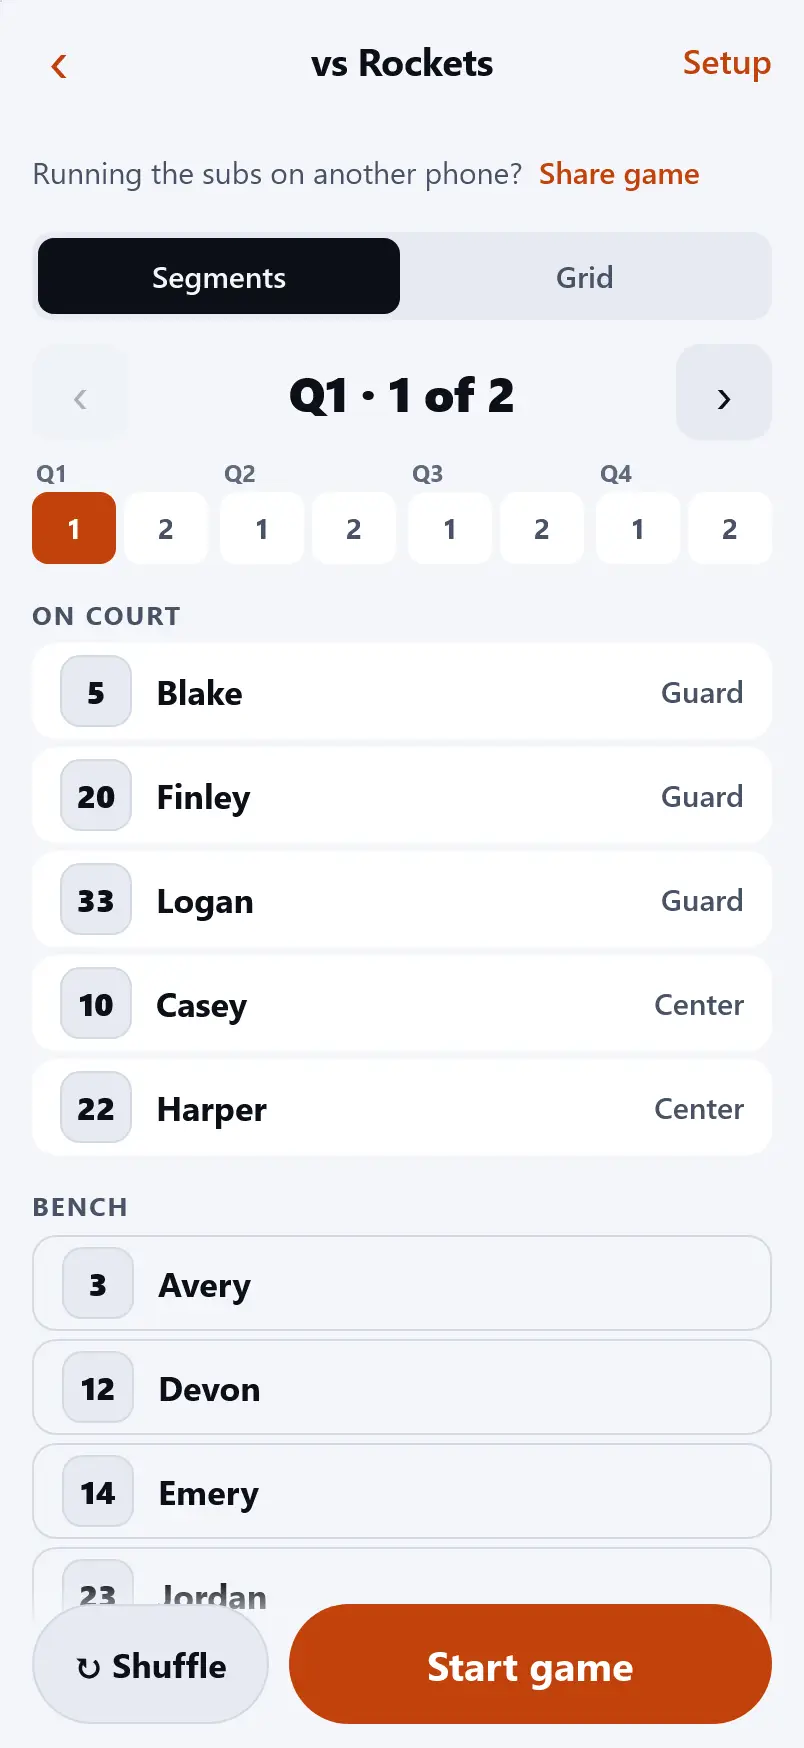
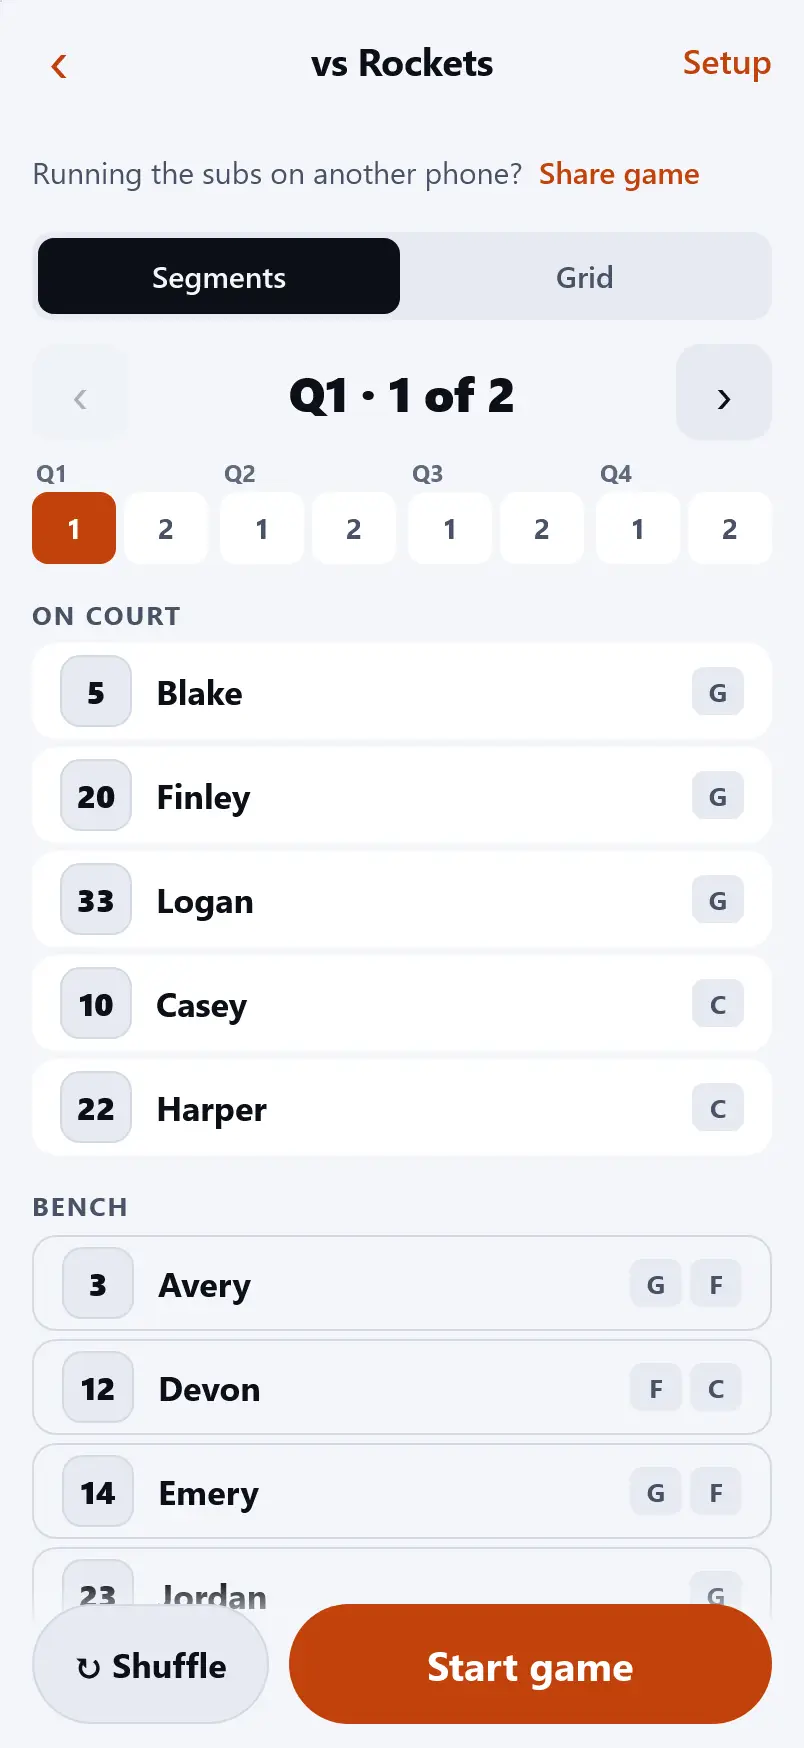
Review fixes, G/F/C chips, release pipeline and changelog
Fixes and features from the 2026-11-04 code review (docs/plans/review-2026-11-04.md):
game-day swaps kept as locks, See full plan, End game now, position chips,
jersey numbers in sub pairs, wake-lock hint, skill-balance consistency,
restore warning, validation of received files, friendly dates, share plan
as text, a game-day property test, and releases with a changelog (REL1-REL4).
Help screenshots retaken.

diff --git a/scripts/screens/capture.spec.ts b/scripts/screens/capture.spec.ts
@@ -10,7 +10,10 @@ import { SHOTS, type ShotName } from '../../src/help/shots';
  * changes, and commit the images.
  */
 
-const OUT = 'public/help';
+// SHOTS_OUT=<folder> saves PNGs there instead, to look at a change before
+// replacing the committed images.
+const PREVIEW = process.env.SHOTS_OUT;
+const OUT = PREVIEW ?? 'public/help';
 mkdirSync(OUT, { recursive: true });
 
 for (const theme of ['dark', 'light'] as const) {
@@ -21,7 +24,8 @@ for (const theme of ['dark', 'light'] as const) {
       // Let sheets finish sliding up.
       await on.waitForTimeout(350);
       const png = await on.screenshot({ animations: 'disabled' });
-      await sharp(png).webp({ quality: 70 }).toFile(`${OUT}/${name}-${theme}.webp`);
+      if (PREVIEW) await sharp(png).png().toFile(`${OUT}/${name}-${theme}.png`);
+      else await sharp(png).webp({ quality: 70 }).toFile(`${OUT}/${name}-${theme}.webp`);
       taken.add(name);
     };
 

diff --git a/src/screens/PlanScreen.test.tsx b/src/screens/PlanScreen.test.tsx
@@ -88,7 +88,7 @@ describe('stepping through segments', () => {
 
   it('shares the plan as text from the grid (E2)', async () => {
     const user = userEvent.setup();
-    const share = vi.fn(async (_: ShareData) => {});
+    const share = vi.fn(async (data: ShareData) => void data);
     Object.assign(navigator, { share });
     await openPlan();
     await user.click(screen.getByRole('radio', { name: 'Grid' }));

diff --git a/docs/plans/review-2026-11-04.md b/docs/plans/review-2026-11-04.md
@@ -15,10 +15,7 @@ Size: **S** = under an hour, **M** = a few hours, **L** = a day or more.
 - **F:** deploy only on releases.
 - **Second round:** yes to A3, B1 (an Edit-menu button with confirmation), B5, B6, A4, C3, C4, D1, D4, E2, F, G1, G5, H. Ignore B3, B4, B7, C2, C5, C6, D2, D3, E3–E6, G3, G4, G6. C7 is a question (explain it, don't build it).
 
-**Progress (paused 2026-11-04; nothing committed and the full `npm run check` hasn't run since):**
-- Done, with tests passing: A2, B2, A3, B1, B5, B6, A4, C3 and C4 (new `src/data/validate.ts`).
-- D1 is mostly done: `PositionChip`, `PositionChips` and `PositionCounts` are in `ui.tsx`, used on Game Day, the Plan screen, the Roster, the substitute picker, the re-plan preview and the stats tables. The e2e lineup-order check now reads `data-position`. tsc and lint pass. Still to do: remove the now-unused `.court-pos` rule in `styles.css`, run the tests, check the layout on a phone, and update the REQUIREMENTS §9 example and the decisions log.
-- Not started: D4, E2, G1, G5, F, H, and the STATUS and README updates for everything after B2.
+**Progress:** everything approved is done (2026-11-05), including the help screenshots, retaken with the G/F/C chips. G5 gave a modest speed-up (engine and game-logic tests run in plain Node); running tests in threads or without user-event delays was slower or flaky, so both were dropped.
 
 ---
 
